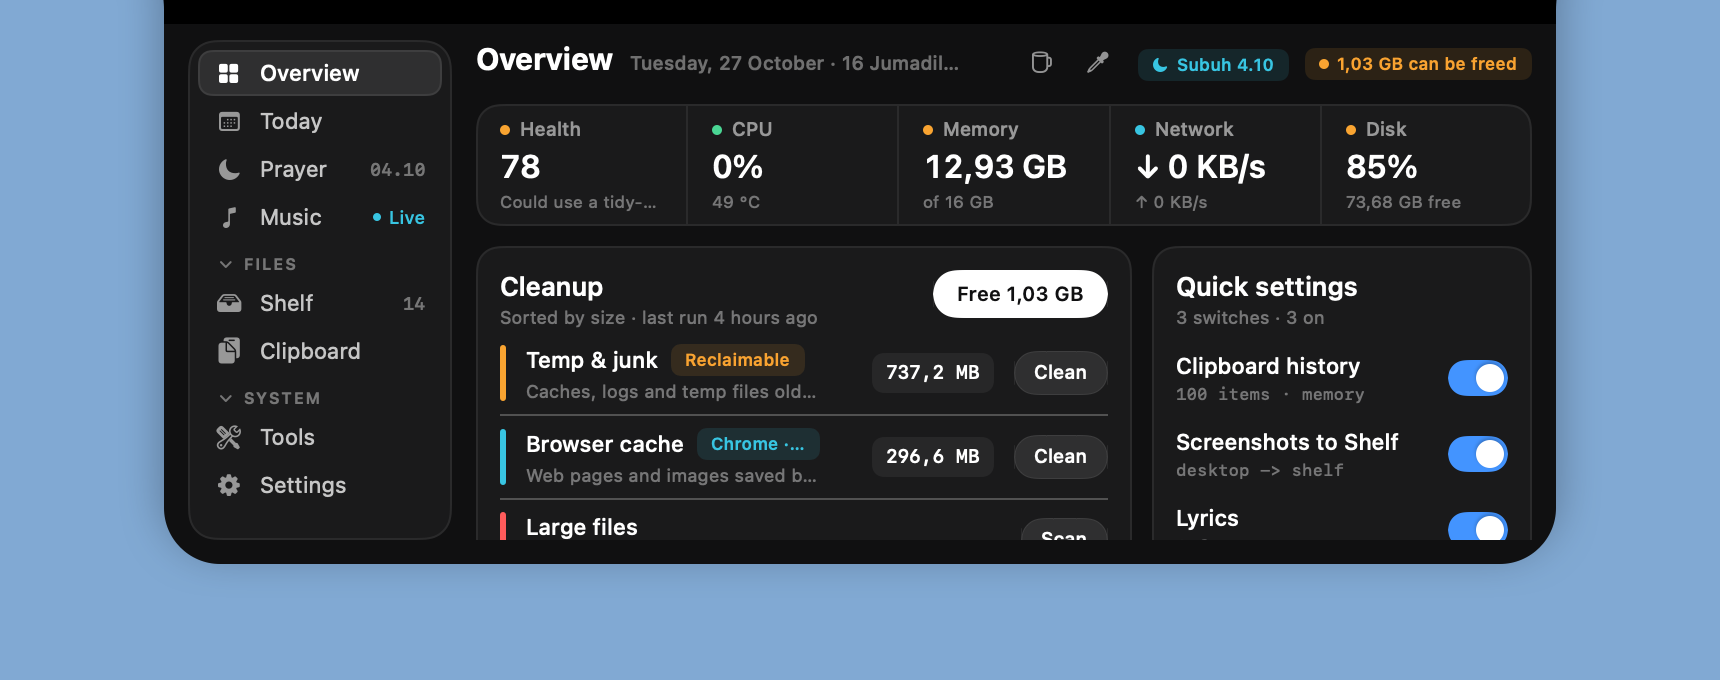
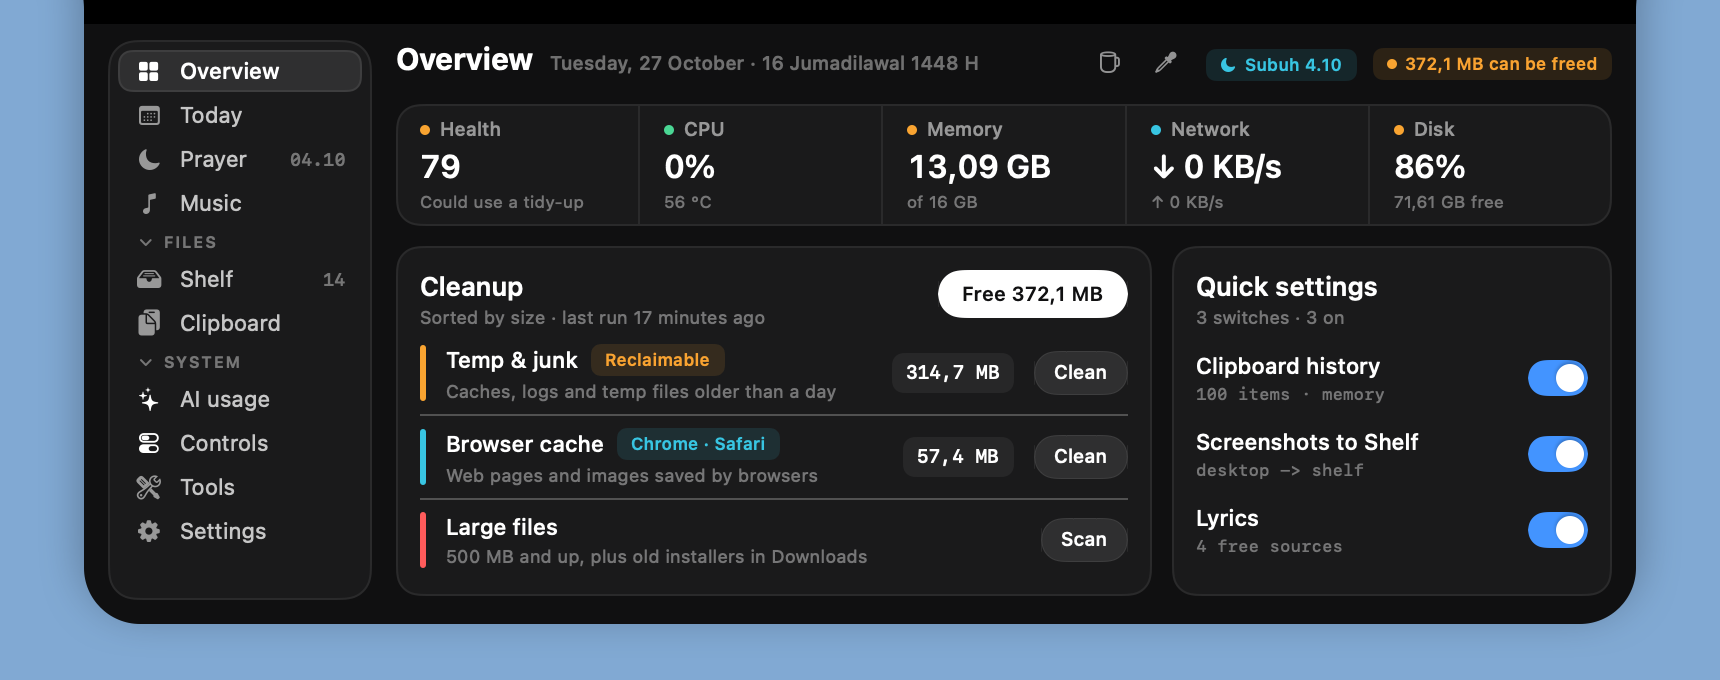
docs: rewrite the readme for Brow with new screenshots

diff --git a/README.md b/README.md
@@ -1,8 +1,8 @@
-# Notchy
+# Brow
 
-A small, native macOS app that turns the MacBook notch into a dashboard. Hover the notch (or press ⌥ Space) to open it.
+A small, native macOS app that turns the MacBook notch into a dashboard. Hover over the notch (or press ⌥ Space) to open it.
 
-Written in Swift and SwiftUI, with no third-party dependencies. The download is about 2 MB, and Notchy uses close to 0% CPU when idle.
+Brow is written in Swift and SwiftUI with no third-party dependencies. The download is about 2.6 MB, and it uses close to 0% CPU when idle.
 
 ![Overview](docs/overview.png)
 
@@ -10,47 +10,88 @@ Written in Swift and SwiftUI, with no third-party dependencies. The download is 
 |---|---|
 | ![Today](docs/today.png) | ![Prayer times](docs/prayer.png) |
 
-![Now playing](docs/music.png)
+| AI usage | Controls |
+|---|---|
+| ![AI usage](docs/ai.png) | ![Controls](docs/controls.png) |
 
 ## Features
 
-**Open panel**
-- **Overview:** a health score plus CPU (with temperature), memory, network and disk, and a one-click cleanup of caches, logs and browser junk.
-- **Today:** weather, your next calendar event with a **Join** button for 19 call services (Zoom, Meet, Teams, Webex, Slack, Discord, …), tasks with time reminders, and a month view. A side card switches between a focus timer, a countdown timer and world clocks.
-- **Prayer times:** calculated on the Mac from your location (Kemenag, MWL, Umm al-Qura, Egypt, ISNA). Includes the Hijri date, a qibla compass, a countdown before each prayer, and a Ramadan mode with Imsak and the "Buka puasa" alert.
-- **Shelf:** drop files on the notch to keep them at hand, then drag them out later. Drop on the right third to send by AirDrop. Screenshots land here automatically. You can also receive files from your phone over Wi-Fi with a QR code.
-- **Clipboard:** text, image and file history with fuzzy search. Words inside images are searchable through on-device OCR. Pinned items are saved; passwords and concealed items are skipped. A Notes page is a scratchpad that saves as you type and can go to the Shelf as a text file.
-- **Now playing:** controls for any player, including YouTube in the browser. Synced lyrics come from four free sources (LRCLIB, NetEase, QQ Music, Kugou), plus a sleep timer and output picker.
-- **Controls:** one-click dark mode, Night Shift, keep awake, mic mute, Dock hiding and desktop icons. Brightness sliders for every screen, including external monitors over DDC. Your Mac's battery health and cycles, the charge of Bluetooth devices, and your Apple Shortcuts, ready to run.
-- **Tools:** an uninstaller that finds an app's leftovers, a large-file finder, and a camera mirror.
+### Open panel
+
+- **Overview:**
+  - A health score.
+  - CPU (with temperature), memory, network and disk.
+  - One-click cleanup of caches, logs and browser junk.
+- **Today:**
+  - Weather.
+  - Your next calendar event, with a **Join** button for 19 call services (Zoom, Meet, Teams, Webex, Slack, Discord, …).
+  - Tasks with time reminders.
+  - A month view.
+  - A focus timer, a countdown timer and world clocks.
+- **Prayer times:**
+  - Calculated on the Mac from your location, using the Kemenag, MWL, Umm al-Qura, Egypt or ISNA method.
+  - The Hijri date and a qibla compass.
+  - A countdown before each prayer.
+  - A Ramadan mode with Imsak and the "Buka puasa" alert.
+- **Shelf:**
+  - Drop files on the notch to keep them at hand, then drag them out later.
+  - Drop on the right third to send by AirDrop.
+  - Screenshots land here automatically.
+  - Receive files from your phone over Wi-Fi with a QR code.
+- **Clipboard:**
+  - Text, image and file history, with fuzzy search.
+  - Words inside images are searchable, through on-device OCR.
+  - Pinned items are saved; passwords and concealed items are skipped.
+  - **Notes:** a scratchpad that saves as you type and can go to the Shelf as a text file.
+- **Now playing:**
+  - Controls for any player, including YouTube in the browser.
+  - Synced lyrics from four free sources: LRCLIB, NetEase, QQ Music and Kugou.
+  - A sleep timer and an output picker.
+- **AI usage:**
+  - **Claude Code**, read from its local logs: tokens and estimated API cost for today, the last 5 hours and the week, per model, with a 7-day chart.
+  - **Codex**, read from its local logs: tokens and rate-limit windows.
+  - Cursor, Antigravity and Gemini CLI are detected, but their usage is not shown yet (see below).
+- **Controls:**
+  - Dark mode, Night Shift, keep awake, mic mute, Dock hiding and desktop icons.
+  - Brightness sliders for every screen, including external monitors over DDC.
+  - Battery health and cycle count, and the charge of Bluetooth devices.
+  - Your Apple Shortcuts, ready to run.
+- **Tools:** an uninstaller that finds an app's leftovers, a large-file finder and a camera mirror.
 - **Header:** keep the Mac awake for a while, or pick a color anywhere on screen and copy its hex code.
 
-**Closed notch**
-- Lyrics while music plays, or a mini player.
+### Closed notch
+
+| Volume | Timer |
+|---|---|
+| ![Volume](docs/notch-volume.png) | ![Timer](docs/notch-timer.png) |
+
+- Lyrics or a mini player while music plays.
 - Volume and brightness levels.
-- Download progress, and a note when a download finishes.
-- Meeting, prayer and timer countdowns.
-- AirPods charge (each bud and the case) when they connect.
-- Gestures: swipe sideways over the notch to change song, scroll up or down for volume.
-- Short notices: charging, AirPods connected, Caps Lock, screenshots, focus timer, and more.
+- Download progress.
+- Timer, meeting and prayer countdowns.
+- AirPods charge, for each bud and the case.
+- Short notices: charging, Caps Lock, screenshots, finished downloads, Shortcuts results, updates.
+- **Gestures:** swipe sideways over the notch to change songs; scroll up or down for volume.
 
-![Download in the notch](docs/notch-download.png)
+### Look
 
-**Look**
-- Layouts: Studio, Compact, Top tabs and Classic.
+- Four layouts: Studio, Compact, Top tabs and Classic.
 - Dark and light themes, 10 accent colors and 3 panel sizes.
-- 3 notch shapes: drop, seamless and floating.
+- Three notch shapes: drop, seamless and floating.
+- Flat buttons that light up under the pointer.
 - SF Pro or Be Vietnam Pro.
 
 ## Install
 
-1. Download `Notchy.dmg` from [Releases](../../releases) and drag Notchy into Applications.
+1. Download `Brow.dmg` from [Releases](../../releases) and drag Brow into Applications.
 2. The app is ad-hoc signed, not notarized. On first launch, right-click it and choose **Open**, or run:
    ```bash
-   xattr -dr com.apple.quarantine /Applications/Notchy.app
+   xattr -dr com.apple.quarantine /Applications/Brow.app
    ```
 
-Requires macOS 14 or later. Built as a universal binary for Apple silicon and Intel.
+Requires macOS 14 or later, as a universal binary for Apple silicon and Intel. Brightness control for external monitors works on Apple silicon only.
+
+**Coming from Notchy?** Brow is the same app under a new name. Your settings, pins and Shelf come along on first launch. Turn **Open at login** on again in Settings, then delete Notchy.app.
 
 macOS asks for access only when a feature needs it:
 
@@ -65,24 +106,34 @@ macOS asks for access only when a feature needs it:
 
 ## Build
 
-The build needs Xcode, which provides the macOS SDK used for the Now Playing helper.
+The build needs Xcode, which provides the macOS SDK for the Now Playing helper.
 
 ```bash
-./build.sh                   # → dist/Notchy.app and dist/Notchy.dmg
-VERSION=1.1.0 ./build.sh     # set the version
+./build.sh                   # → dist/Brow.app and dist/Brow.dmg
+VERSION=1.2.0 ./build.sh     # set the version
 ```
+
+Commit messages follow [Conventional Commits](https://www.conventionalcommits.org) and are checked by commitlint. Run `npm install` once to set up the hook.
 
 ## How it works
 
 - **Now playing:** read through the system MediaRemote framework. A small helper is loaded by `/usr/bin/perl`, because recent macOS versions only answer MediaRemote requests from Apple-signed processes.
-- **CPU temperature:** read through IOKit HID sensors. Built-in brightness goes through DisplayServices, Night Shift through CoreBrightness, and external monitors through DDC/CI over IOAVService (Apple silicon). All are loaded at run time, so missing symbols simply turn those features off.
-- **Updates:** Settings can check GitHub Releases once a day; this needs the repository to be public.
+- **Hardware:**
+  - CPU temperature comes from IOKit HID sensors.
+  - Built-in brightness goes through DisplayServices, and Night Shift through CoreBrightness.
+  - External monitors are reached over DDC/CI through IOAVService.
+  - All of these are loaded at run time, so a missing symbol only switches that feature off.
+- **AI usage:** Brow reads the logs Claude Code and Codex already write (`~/.claude/projects`, `~/.codex/sessions`), and only the new lines on each pass. Costs are Anthropic API list prices for the same tokens, not what a subscription charges. Brow never reads or sends sign-in tokens, which is why Cursor and Antigravity, which keep usage on their servers, are listed but not measured.
 - **Global shortcut:** registered through Carbon hot keys, so it needs no Accessibility permission.
-- **Network services:** lyrics come from LRCLIB, NetEase, QQ Music and Kugou, with only the title and artist sent. Weather comes from Open-Meteo. None of them needs an API key, and there is no tracking or analytics.
+- **Network:**
+  - Lyrics come from LRCLIB, NetEase, QQ Music and Kugou; only the title and artist are sent.
+  - Weather comes from Open-Meteo.
+  - Updates are checked against GitHub Releases.
+  - None of these needs an API key, and there is no tracking or analytics.
 
 ## Credits
 
-Ideas were studied from these open-source projects; Notchy's code is written from scratch:
+Ideas came from studying these open-source projects; Brow's code is written from scratch:
 NotchDrop, DynamicNotchKit, Stats, Maccy, KeyboardShortcuts, Pearcleaner, LyricsX, Boring.notch, Atoll, Hidden Bar, MeetingBar, MonitorControl and Itsycal.
 
 The Be Vietnam Pro font is © The Be Vietnam Pro Project Authors and licensed under the [SIL Open Font License](Resources/Fonts/OFL.txt).
